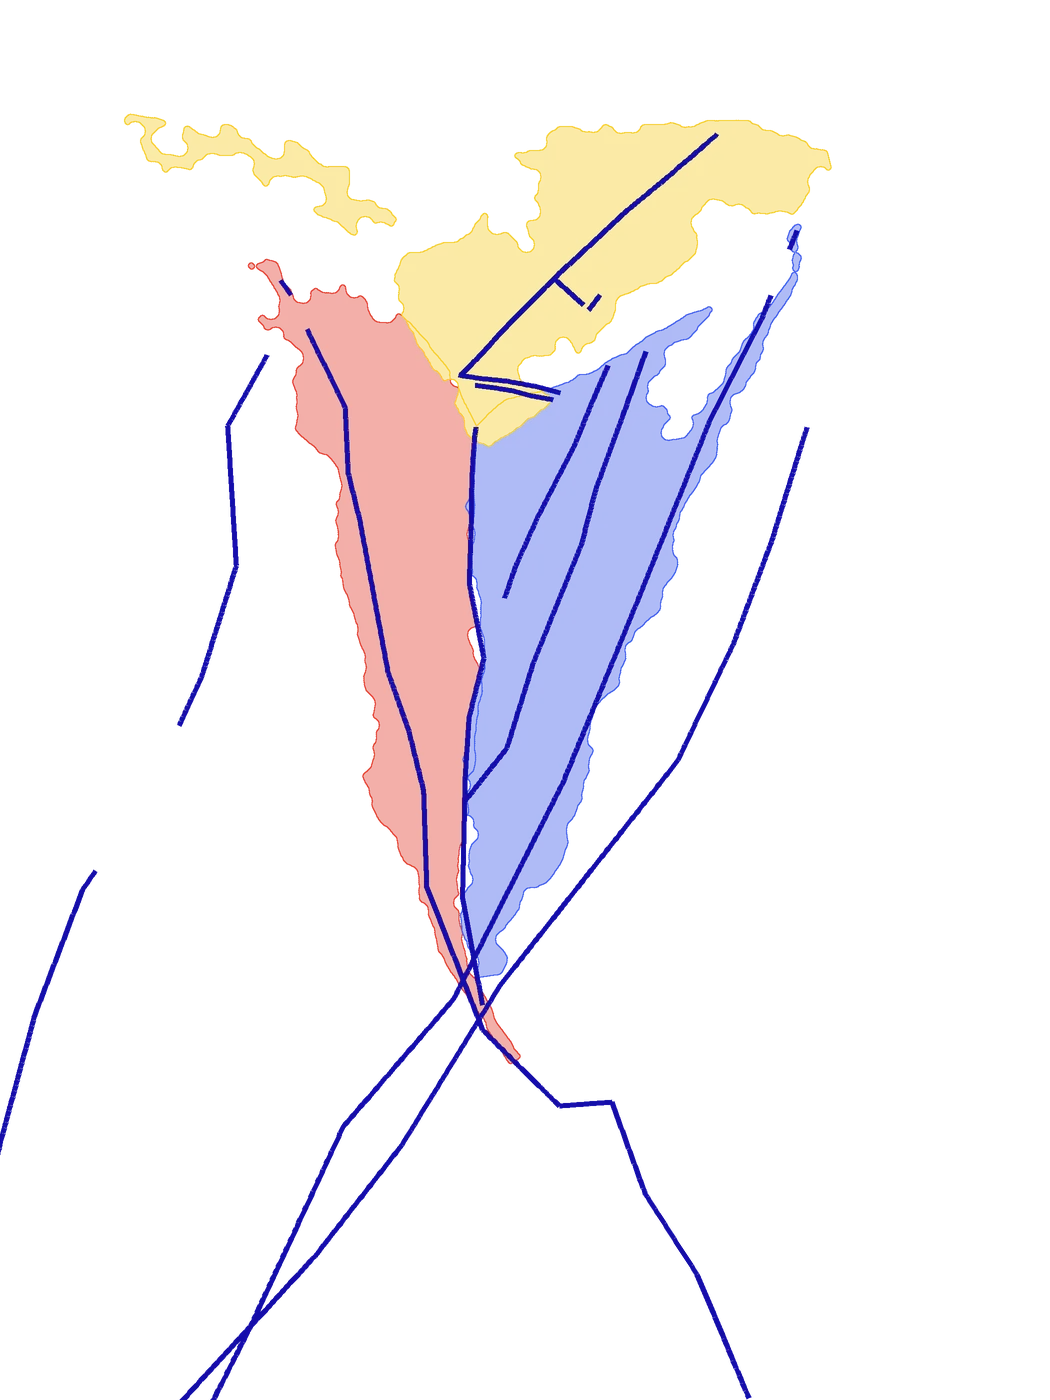
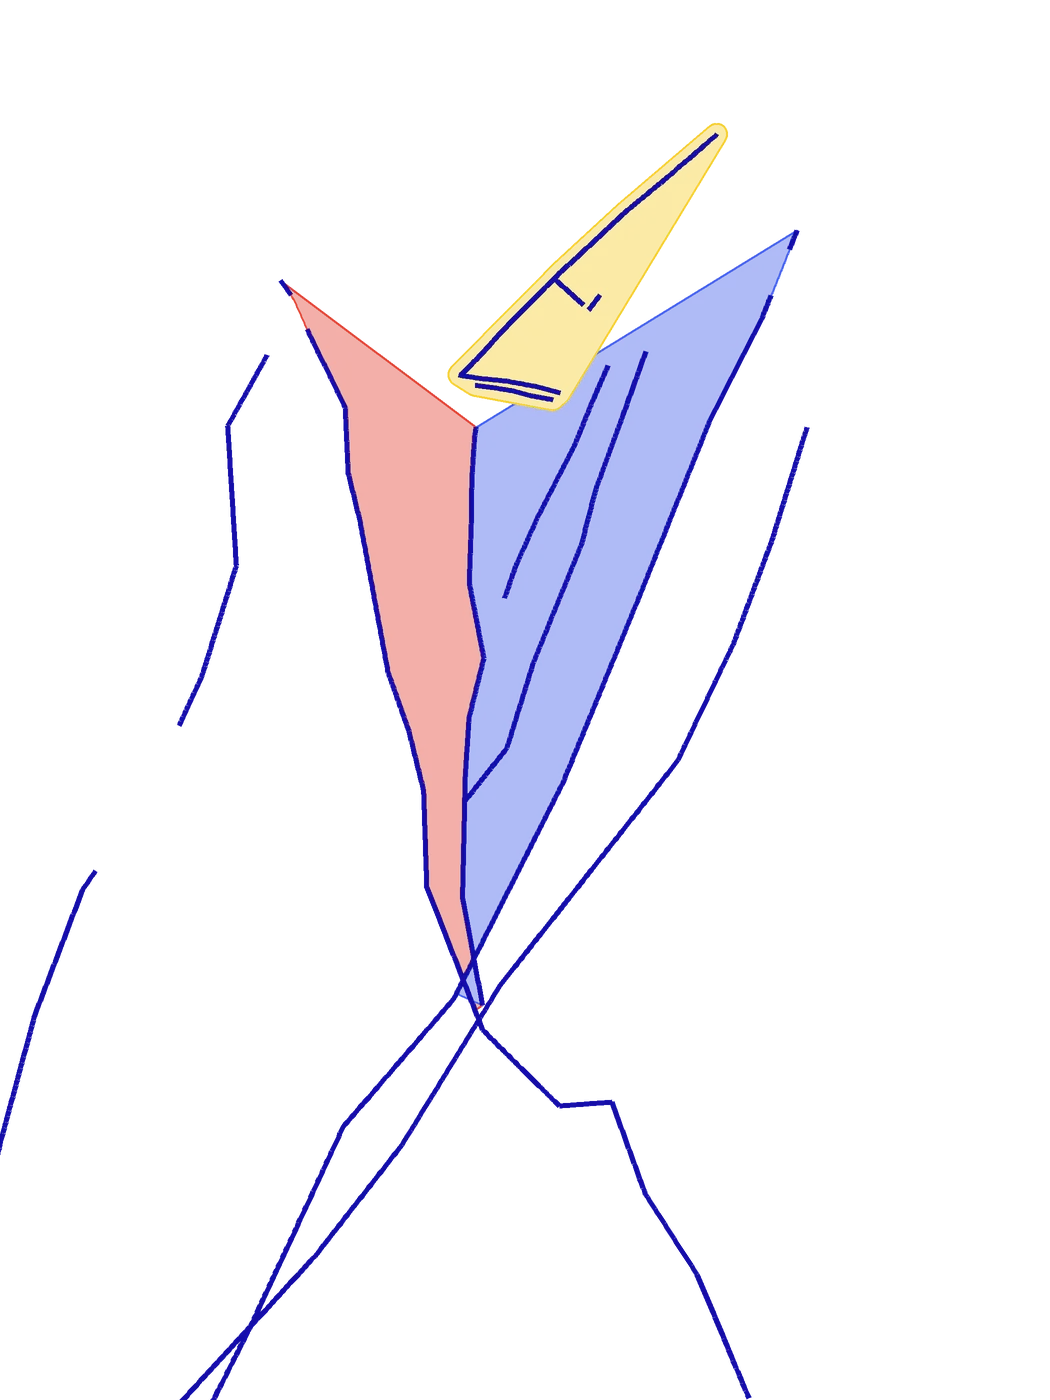
RA G1: caras de la cuña con las trazas de Leapfrog y carteles solo con ícono y flecha (SW gpm-v18 / gpm-ra-8)
Rojo/azul/amarillo ya no salen de la banda de la malla (lóbulos, agujeros): son polígonos 3D armados con las trazas
Frac1, 1-4, Frac4 y la envolvente de Frac5, proyectados con la cámara de cada foto. Los carteles pasan de píldoras
con texto a insignias circulares de ícono con flecha hacia el punto de la roca; el título queda en la ficha.

Changed region(s): [[0.1219, 0.0614, 0.7924, 0.7679], [0.4876, 0.5221, 0.579, 0.645], [0.4267, 0.3993, 0.4571, 0.4914]]

diff --git a/docs/ar.html b/docs/ar.html
@@ -31,13 +31,13 @@
   /* carteles de divulgación: HTML sobre la cámara, anclados a la roca en cada cuadro */
   #carteles { position: fixed; inset: 0; z-index: 5; pointer-events: none; }
   #carteles svg { position: absolute; inset: 0; width: 100%; height: 100%; overflow: visible; }
-  #carteles line { stroke: #fff; stroke-width: 2; stroke-dasharray: 4 3; filter: drop-shadow(0 0 2px rgba(0,0,0,.8)); }
+  #carteles line { stroke: #fff; stroke-width: 2; marker-end: url(#flecha); filter: drop-shadow(0 0 2px rgba(0,0,0,.9)); }
   .punto { position: absolute; width: 14px; height: 14px; margin: -7px 0 0 -7px; border-radius: 50%; border: 3px solid #fff; box-shadow: 0 0 0 2px rgba(0,0,0,.35); animation: latido 1.6s ease-in-out infinite; }
   @keyframes latido { 50% { transform: scale(1.35); } }
-  .cartel { position: absolute; pointer-events: auto; transform: translate(-50%, -50%); display: flex; align-items: center; gap: 6px; white-space: nowrap;
-    background: rgba(255,255,255,.95); color: #1d1d1d; border: 0; border-left: 6px solid var(--c); border-radius: 12px; padding: 6px 10px 6px 7px;
-    font: 700 .86rem/1.15 system-ui, -apple-system, "Segoe UI", Roboto, sans-serif; text-align: left; box-shadow: 0 3px 10px rgba(0,0,0,.45); animation: aparece .35s ease-out both; }
-  .cartel .ic { font-size: 1.35rem; line-height: 1; }
+  /* solo el ícono, en una insignia pequeña: los textos tapaban las líneas de fractura; el título va en la ficha */
+  .cartel { position: absolute; pointer-events: auto; transform: translate(-50%, -50%); display: grid; place-items: center; width: 38px; height: 38px; padding: 0;
+    background: rgba(255,255,255,.96); border: 3px solid var(--c); border-radius: 50%; box-shadow: 0 2px 8px rgba(0,0,0,.5); animation: aparece .35s ease-out both; }
+  .cartel .ic { font-size: 1.15rem; line-height: 1; }
   .cartel.activo { outline: 3px solid #ffc766; }
   @keyframes aparece { from { transform: translate(-50%, -50%) scale(.6); opacity: 0; } }
   .fila { display: flex; align-items: center; gap: 10px; margin-top: 8px; font-size: .8rem; }
@@ -58,7 +58,7 @@
 </head>
 <body>
 <div id="escena"></div>
-<div id="carteles" hidden><svg></svg></div>
+<div id="carteles" hidden><svg><defs><marker id="flecha" viewBox="0 0 10 10" refX="9" refY="5" markerWidth="8" markerHeight="8" orient="auto"><path d="M0 0 10 5 0 10z" fill="#fff"/></marker></defs></svg></div>
 <div class="barra"><button id="volver" aria-label="←">←</button><b id="titulo"></b></div>
 <div class="panel">
   <div id="buscando">
@@ -155,7 +155,7 @@ const elementos = CARTELES.map(c => {
   punto.style.background = c.color2 ? `linear-gradient(90deg, ${c.color} 50%, ${c.color2} 50%)` : c.color;
   const b = document.createElement('button');
   b.className = 'cartel'; b.style.setProperty('--c', c.color);
-  b.innerHTML = `<span class="ic">${c.icono}</span><span>${esc(tx(c.titulo))}</span>`;
+  b.innerHTML = `<span class="ic">${c.icono}</span>`; b.setAttribute('aria-label', tx(c.titulo)); b.title = tx(c.titulo);
   b.onclick = () => abrir(c, b);
   const linea = document.createElementNS('http://www.w3.org/2000/svg', 'line');
   svg.appendChild(linea); capaCarteles.append(punto, b);
@@ -209,9 +209,9 @@ function ubicarCarteles() {
     if (!q) continue;
     const [ax, ay] = aPantalla(anclas[activo], p, q[0], q[1], rect);
     let [lx, ly] = aPantalla(anclas[activo], p, q[0] + e.c.dx, q[1] + e.c.dy, rect);
-    const m = e.b.offsetWidth / 2 + 6, mh = e.b.offsetHeight / 2 + 6;
+    const m = 38 / 2 + 6, mh = 38 / 2 + 6;
     lx = Math.min(Math.max(lx, m), innerWidth - m); ly = Math.min(Math.max(ly, mh + 60), alto - mh);
-    e.ax = ax; e.ay = ay; e.lx = lx; e.ly = ly; e.w = e.b.offsetWidth; e.h = e.b.offsetHeight;
+    e.ax = ax; e.ay = ay; e.lx = lx; e.ly = ly; e.w = e.h = 38;
   }
   // si dos carteles se tapan, se separan en vertical (el de más abajo baja, o sube si no cabe)
   const vivos = elementos.filter(e => !e.b.hidden).sort((a, b) => a.ly - b.ly);
@@ -226,7 +226,10 @@ function ubicarCarteles() {
   for (const e of vivos) {
     e.punto.style.left = e.ax + 'px'; e.punto.style.top = e.ay + 'px';
     e.b.style.left = e.lx + 'px'; e.b.style.top = e.ly + 'px';
-    e.linea.setAttribute('x1', e.ax); e.linea.setAttribute('y1', e.ay); e.linea.setAttribute('x2', e.lx); e.linea.setAttribute('y2', e.ly);
+    const dx = e.ax - e.lx, dy = e.ay - e.ly, d = Math.hypot(dx, dy) || 1;   // insignia → roca; la flecha termina en el punto
+    e.linea.style.display = d > 30 ? '' : 'none';
+    e.linea.setAttribute('x1', e.lx + dx / d * 20); e.linea.setAttribute('y1', e.ly + dy / d * 20);
+    e.linea.setAttribute('x2', e.ax - dx / d * 9); e.linea.setAttribute('y2', e.ay - dy / d * 9);
   }
 }
 

diff --git a/docs/i18n.js b/docs/i18n.js
@@ -58,7 +58,7 @@ const TXT = {
     ra_prueba: '¿No estás en el lugar? Toca una foto para verla en grande y apunta otro teléfono hacia ella.',
     ra_no_hay: 'Este geositio todavía no tiene realidad aumentada.', ra_sin_camara: 'No se pudo abrir la cámara de este dispositivo.',
     ra_permiso: 'Permite el acceso a la cámara para usar la realidad aumentada.',
-    ra_carteles: '🏷 Carteles', ra_toca: 'Toca un cartel para saber más.', ra_curiosos: '🤓 Para curiosos', ra_cerrar: 'Cerrar', ra_escuchar: '🔊 Escuchar', ra_pausa: '⏸ Pausa',
+    ra_carteles: '🏷 Carteles', ra_toca: 'Toca un ícono para saber más.', ra_curiosos: '🤓 Para curiosos', ra_cerrar: 'Cerrar', ra_escuchar: '🔊 Escuchar', ra_pausa: '⏸ Pausa',
     pc3: 'Confirma con <b>Instalar</b>', entendido: 'Entendido', instalar_ya: '📲 Instalar ahora', ahora_no: 'Ahora no',
   },
   en: {
@@ -118,7 +118,7 @@ const TXT = {
     ra_prueba: 'Not on site? Tap a photo to view it full screen and point another phone at it.',
     ra_no_hay: 'This geosite does not have augmented reality yet.', ra_sin_camara: 'The camera on this device could not be opened.',
     ra_permiso: 'Allow camera access to use augmented reality.',
-    ra_carteles: '🏷 Labels', ra_toca: 'Tap a label to learn more.', ra_curiosos: '🤓 For the curious', ra_cerrar: 'Close', ra_escuchar: '🔊 Listen', ra_pausa: '⏸ Pause',
+    ra_carteles: '🏷 Labels', ra_toca: 'Tap an icon to learn more.', ra_curiosos: '🤓 For the curious', ra_cerrar: 'Close', ra_escuchar: '🔊 Listen', ra_pausa: '⏸ Pause',
     pc3: 'Confirm with <b>Install</b>', entendido: 'Got it', instalar_ya: '📲 Install now', ahora_no: 'Not now',
   },
   pt: {
@@ -178,7 +178,7 @@ const TXT = {
     ra_prueba: 'Não está no local? Toque em uma foto para vê-la em tela cheia e aponte outro celular para ela.',
     ra_no_hay: 'Este geossítio ainda não tem realidade aumentada.', ra_sin_camara: 'Não foi possível abrir a câmera deste aparelho.',
     ra_permiso: 'Permita o acesso à câmera para usar a realidade aumentada.',
-    ra_carteles: '🏷 Placas', ra_toca: 'Toque em uma placa para saber mais.', ra_curiosos: '🤓 Para curiosos', ra_cerrar: 'Fechar', ra_escuchar: '🔊 Ouvir', ra_pausa: '⏸ Pausar',
+    ra_carteles: '🏷 Placas', ra_toca: 'Toque em um ícone para saber mais.', ra_curiosos: '🤓 Para curiosos', ra_cerrar: 'Fechar', ra_escuchar: '🔊 Ouvir', ra_pausa: '⏸ Pausar',
     pc3: 'Confirme em <b>Instalar</b>', entendido: 'Entendi', instalar_ya: '📲 Instalar agora', ahora_no: 'Agora não',
   },
 };

diff --git a/docs/sw.js b/docs/sw.js
@@ -1,6 +1,6 @@
 /* Service worker GeoParquemet: app offline, medios y teselas del mapa en caché. */
-const VERSION = 'gpm-v17';
-const RA = 'gpm-ra-7';   // objetivos de realidad aumentada: subir al regenerarlos (se guardan aparte de los medios, que nunca expiran)
+const VERSION = 'gpm-v18';
+const RA = 'gpm-ra-8';   // objetivos de realidad aumentada: subir al regenerarlos (se guardan aparte de los medios, que nunca expiran)
 const APP = ['./', 'index.html', 'styles.css', 'i18n.js', 'app.js', 'manifest.webmanifest', 'vendor/leaflet.js', 'vendor/leaflet.css',
   'data/tour.json', 'data/glosario.json', 'data/geologia.geojson', 'data/quiz.json', 'data/lang_en.json', 'data/lang_pt.json', 'img/portada.webp',
   'img/logos/sernageomin.webp', 'img/logos/parquemet.webp',

diff --git a/tools/capas_ar_3d.py b/tools/capas_ar_3d.py
@@ -54,6 +54,31 @@ def cierre1d(v, n=9):
     return (np.convolve(d.astype(int), np.ones(n, int), 'same') == n)[n:-n]
 
 
+def tramo(P, A, B=None):
+    """Parte de la traza densa P desde el punto más cercano a A hasta el más cercano a B; sin B, hasta su extremo más lejano de A."""
+    i = int(np.argmin(np.linalg.norm(P - A, axis=1)))
+    if B is not None: j = int(np.argmin(np.linalg.norm(P - B, axis=1)))
+    else: j = len(P) - 1 if np.linalg.norm(P[-1] - A) > np.linalg.norm(P[0] - A) else 0
+    return P[i:j + 1] if j >= i else P[j:i + 1][::-1]
+
+
+def poligonos(trazas):
+    """Caras de la cuña como polígonos 3D hechos con las propias trazas de Leapfrog (no con la malla, que es ruidosa):
+      rojo  = plano Frac1: entre la traza Frac1 y la arista 1-4 (intersección de Frac1 con Frac4), desde el vértice de la cuña
+      azul  = plano Frac4: entre la arista 1-4 y la traza Frac4
+      amarillo = planos Frac5: envolvente de sus trazas (Frac5*, Frac 5-3, Frac51*), ensanchada al proyectarla
+    Las trazas no se cortan exactamente en 3D: el vértice es el extremo de 1-4 más cercano a Frac1 y Frac4."""
+    D = lambda n: ra3d.densificar(trazas[n][0], 0.25)
+    f1, f4, ar = D('Frac1'), D('Frac4'), D('1-4')
+    cerca = np.vstack([f1, f4])
+    dmin = lambda p: np.linalg.norm(cerca - p, axis=1).min()
+    apice, tope = (ar[0], ar[-1]) if dmin(ar[0]) < dmin(ar[-1]) else (ar[-1], ar[0])
+    arista = tramo(ar, apice)                # vértice → extremo superior de 1-4
+    c1, c4 = tramo(f1, apice), tramo(f4, apice)
+    amar = np.vstack([D(n) for n in trazas if n.replace(' ', '').startswith('Frac5')])
+    return {'Frac1': np.vstack([c1, arista[::-1]]), 'Frac4': np.vstack([arista, c4[::-1]]), 'Frac5': amar}
+
+
 def capa(c, V, F, trazas, sup, lado):
     """Capa RGBA en el marco de Pix4D, con el lado largo = lado*SS."""
     esc = lado * SS / max(c['w'], c['h'])
@@ -62,18 +87,22 @@ def capa(c, V, F, trazas, sup, lado):
     e4 = esc / 4; w4, h4 = round(c['w'] * e4), round(c['h'] * e4)
     zb = np.asarray(Image.fromarray(ra3d.zbuffer(c, V, F, w4, h4, e4)).resize((w, h), Image.NEAREST))
     rgba = np.zeros((h, w, 4), np.uint8)
-    for nombre, (Vs, Fs) in sup.items():
-        col = RELLENO.get(familia(nombre))
-        if not col: continue
-        zs = ra3d.raster_superficie(c, Vs, Fs, w, h, esc)
-        with np.errstate(invalid='ignore'):
-            z = np.isfinite(zb) & np.isfinite(zs) & (np.abs(zs - zb) < BANDA)
-        z = limpiar(z, 7 * SS, (60 * SS) ** 2)
-        borde = z & ~(np.asarray(Image.fromarray((z * 255).astype(np.uint8)).filter(ImageFilter.MinFilter(2 * SS + 1))) > 127)
-        rgba[z, :3] = col; rgba[z, 3] = np.maximum(rgba[z, 3], 105)
-        rgba[borde, :3] = col; rgba[borde, 3] = 235
     im = Image.fromarray(rgba, 'RGBA')
     dr = ImageDraw.Draw(im)
+    for fam, P3 in poligonos(trazas).items():
+        col = RELLENO[fam]
+        u, v, z = ra3d.proyectar(c, P3, esc)
+        if (z <= 0).any(): continue
+        pts = np.c_[u, v]
+        if fam == 'Frac5':                       # envolvente convexa, ensanchada un 1 % del ancho
+            hull = cv2.convexHull(pts.astype(np.float32))[:, 0]
+            m = np.zeros((h, w), np.uint8); cv2.fillPoly(m, [hull.astype(np.int32)], 1)
+            r = max(3, int(0.01 * w)); m = cv2.dilate(m, cv2.getStructuringElement(cv2.MORPH_ELLIPSE, (2 * r + 1, 2 * r + 1)))
+            cnt = max(cv2.findContours(m, cv2.RETR_EXTERNAL, cv2.CHAIN_APPROX_SIMPLE)[0], key=cv2.contourArea)[:, 0]
+            pts = cnt.astype(float)
+        poli = [tuple(p) for p in pts]
+        dr.polygon(poli, fill=(*col, 105))
+        dr.line(poli + [poli[0]], fill=(*col, 235), width=2 * SS, joint='curve')
     for nombre, tramos in trazas.items():
         for t in tramos:
             P = ra3d.densificar(t, 0.25)

diff --git a/tools/_exp2.py b/tools/_exp2.py
@@ -1,0 +1,29 @@
+import numpy as np,cv2,sys
+import ra3d
+S=sys.argv[1]
+zs=np.load(ra3d.CACHE/'zs_exp.npy'); zb=np.load(ra3d.CACHE/'zb_exp.npy')
+foto=cv2.imread(str(ra3d.CACHE/'foto_exp.png'))
+col={0:(60,60,230),1:(230,100,60),2:(40,200,230)}   # BGR r,b,y
+def formas(banda,r):
+    with np.errstate(invalid='ignore'):
+        dif=np.abs(zs-zb[None]); ok=np.isfinite(zb)[None]&np.isfinite(zs)&(dif<banda)
+    # reparto por cercanía a la cámara entre planos que afloran
+    zz=np.where(ok,zs,np.inf); ganador=np.argmin(zz,0); hay=np.isfinite(zz.min(0))
+    out=[]
+    for i in range(3):
+        m=((ganador==i)&hay).astype(np.uint8)
+        k=cv2.getStructuringElement(cv2.MORPH_ELLIPSE,(2*r+1,2*r+1))
+        m=cv2.morphologyEx(m,cv2.MORPH_CLOSE,k); m=cv2.morphologyEx(m,cv2.MORPH_OPEN,k)
+        n,et,st,_=cv2.connectedComponentsWithStats(m,connectivity=4)
+        if n>1: m=(et==1+np.argmax(st[1:,cv2.CC_STAT_AREA])).astype(np.uint8)
+        m=cv2.GaussianBlur(m.astype(np.float32),(0,0),r/2)>0.5
+        out.append(m)
+    return out
+pan=[]
+for banda,r in ((1.2,7),(0.6,9),(0.35,11)):
+    im=foto.copy()
+    for i,m in enumerate(formas(banda,r)):
+        ov=im.copy(); ov[m]=col[i]; im=cv2.addWeighted(ov,.45,im,.55,0)
+        cnt,_=cv2.findContours(m.astype(np.uint8),cv2.RETR_EXTERNAL,cv2.CHAIN_APPROX_SIMPLE); cv2.drawContours(im,cnt,-1,col[i],2)
+    cv2.putText(im,f'banda {banda}',(10,30),0,1,(255,255,255),2); pan.append(im[0:800,100:750])
+cv2.imwrite(S+'/formas.jpg',np.hstack(pan))

diff --git a/tools/_exp_formas.py b/tools/_exp_formas.py
@@ -1,0 +1,16 @@
+import json,sys,numpy as np,cv2
+from PIL import Image,ImageOps
+import ra3d,capas_ar_nuevas as N
+V,F,*_=ra3d.malla(); tr,sup=ra3d.interpretacion()
+nombre=sys.argv[1]; d=N.NUEVAS[nombre]; c=N.camara(d)
+L=1000; esc=L/max(c['w'],c['h']); w,h=round(c['w']*esc),round(c['h']*esc)
+e4=esc/2; zb=cv2.resize(ra3d.zbuffer(c,V,F,round(c['w']*e4),round(c['h']*e4),e4),(w,h),interpolation=cv2.INTER_NEAREST)
+fam={'Frac1':'r','Frac4':'b','Frac5':'y','Frac51_1':'y','Frac 5-3':'y'}
+zs={}
+for n,(Vs,Fs) in sup.items():
+    z=ra3d.raster_superficie(c,Vs,Fs,w,h,esc); k=fam[n]; zs[k]=np.minimum(zs.get(k,np.inf),z)
+np.save(ra3d.CACHE/'zs_exp.npy',np.stack([zs[k] for k in 'rby'])); np.save(ra3d.CACHE/'zb_exp.npy',zb)
+foto=ImageOps.exif_transpose(Image.open(ra3d.RAIZ/'Fotos y modelos'/'Fotos Terreno 30-09-26'/nombre)).convert('RGB').resize((w,h))
+foto.save(ra3d.CACHE/'foto_exp.png'); print(w,h)
+for k in 'rby':
+    dif=zs[k]-zb; ok=np.isfinite(dif); print(k,ok.sum(),np.percentile(np.abs(dif[ok]),[5,25,50,75]))
